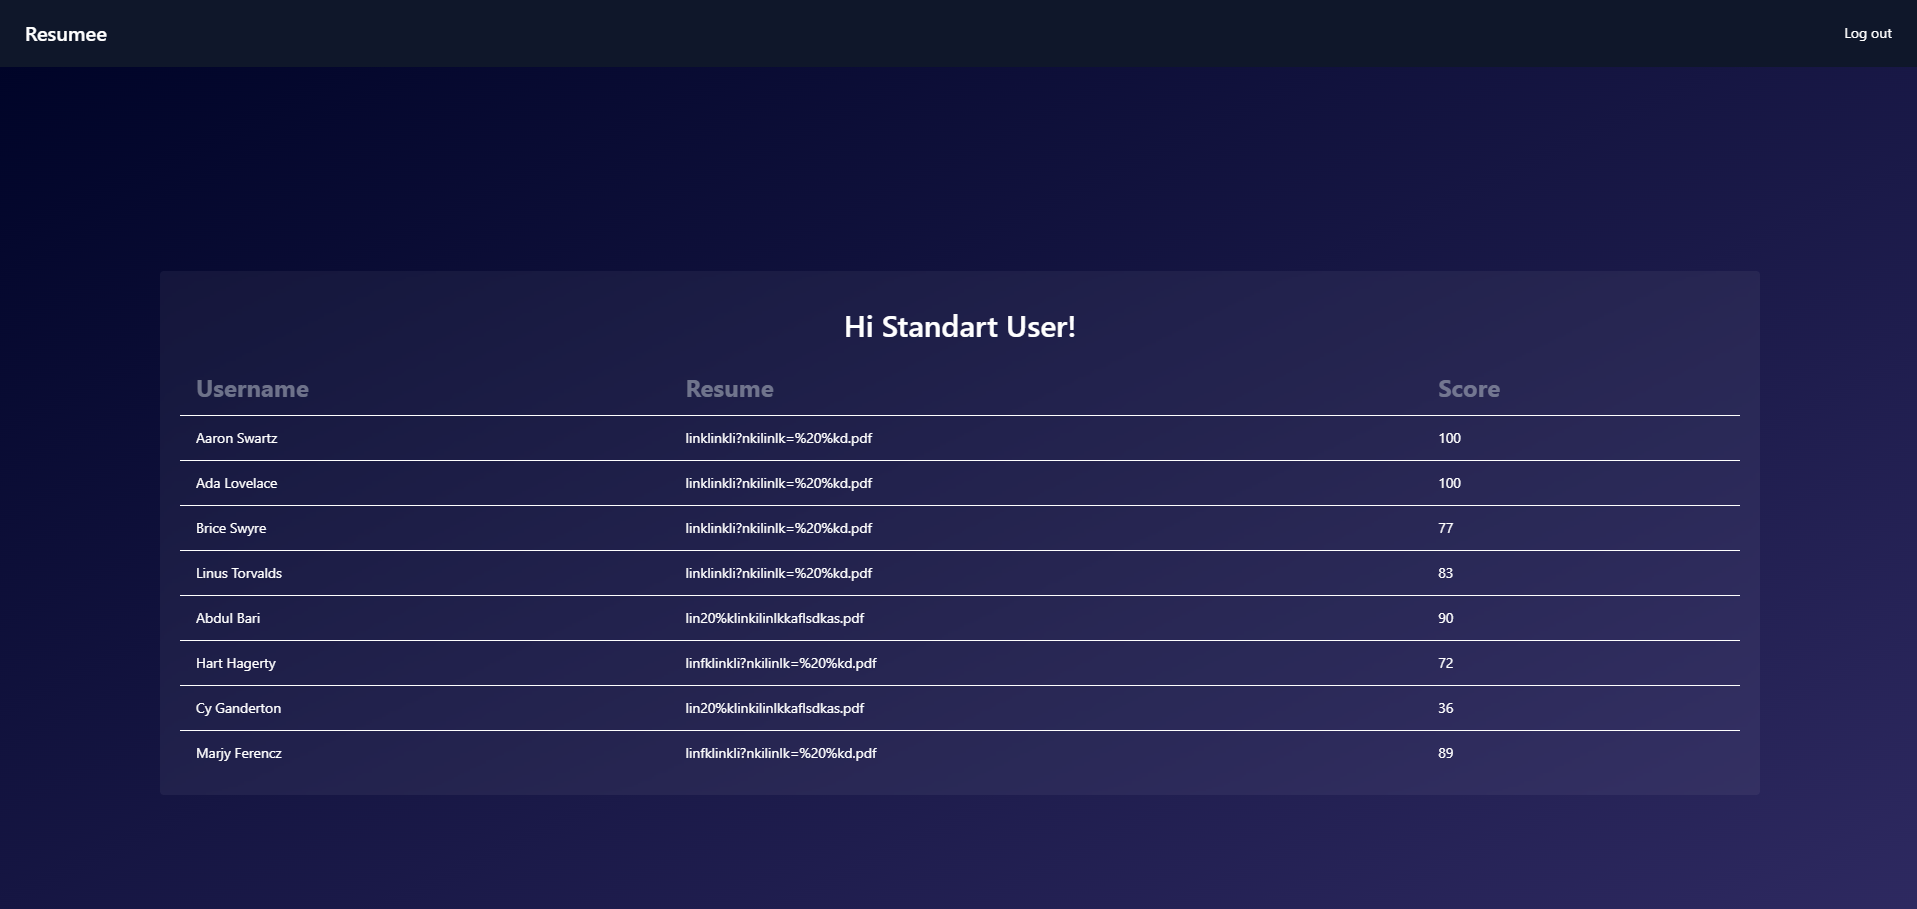
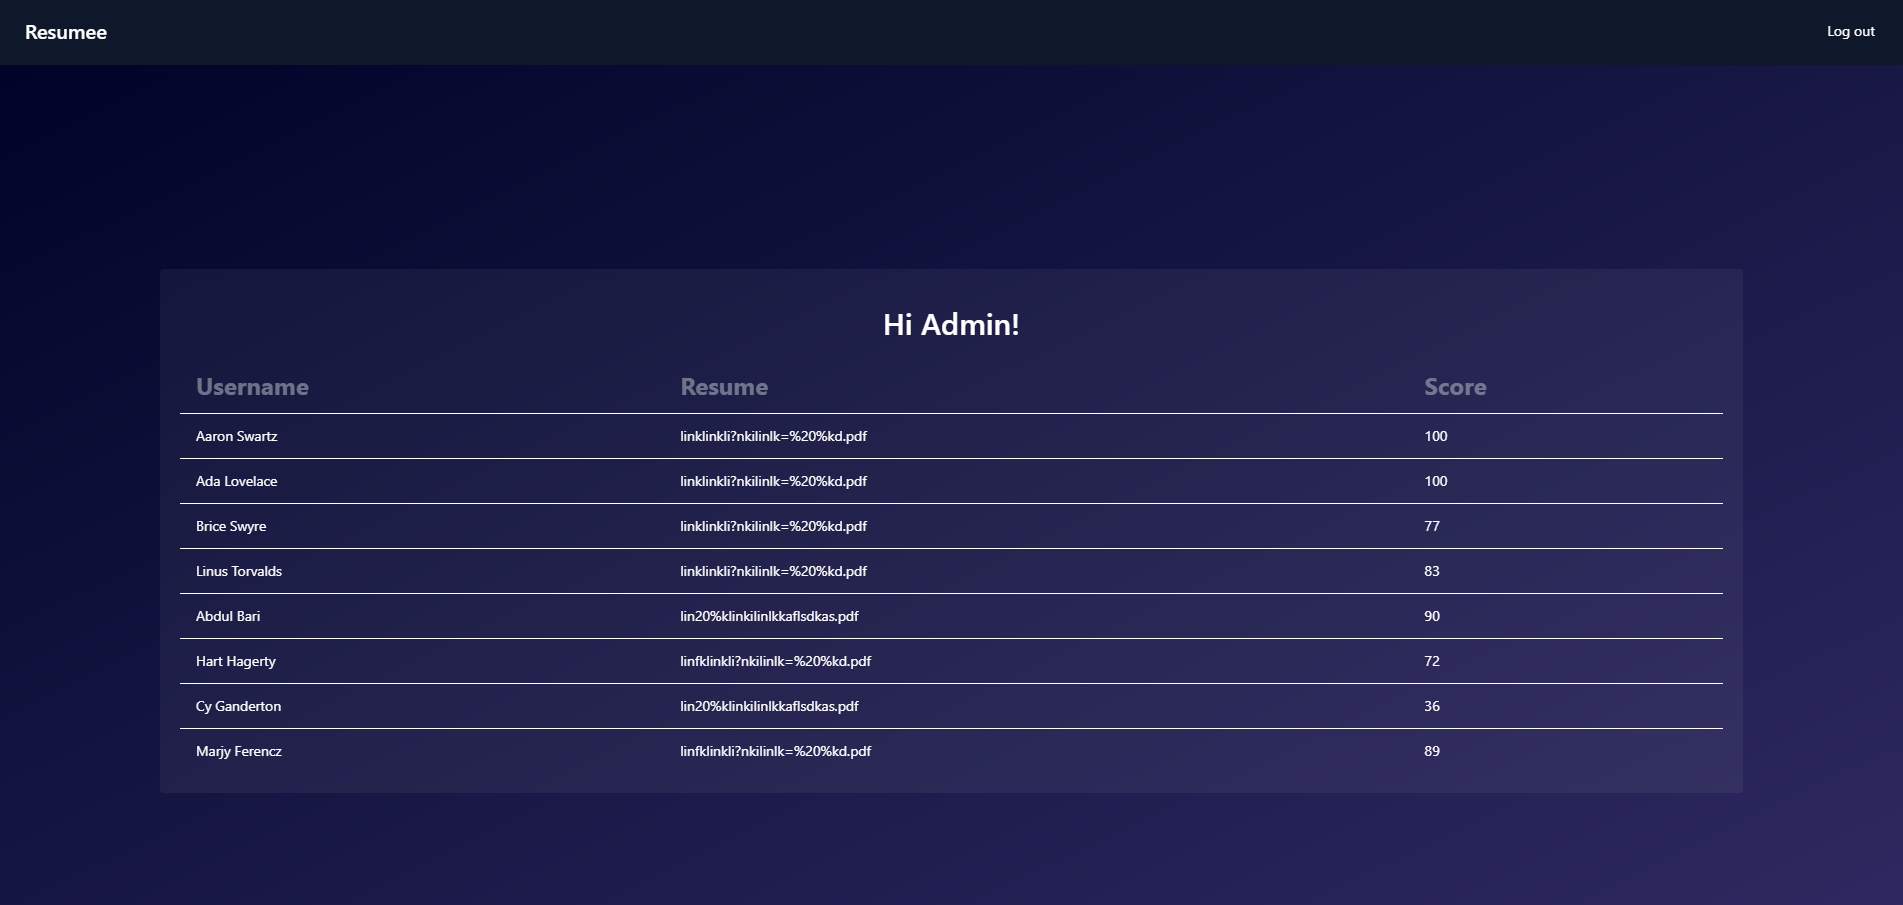
update

diff --git a/main.css b/main.css
@@ -8393,6 +8393,11 @@ details.collapse summary::-webkit-details-marker {
   margin-right: 1.75rem;
 }
 
+.my-10 {
+  margin-top: 2.5rem;
+  margin-bottom: 2.5rem;
+}
+
 .my-20 {
   margin-top: 5rem;
   margin-bottom: 5rem;
@@ -8401,16 +8406,6 @@ details.collapse summary::-webkit-details-marker {
 .my-5 {
   margin-top: 1.25rem;
   margin-bottom: 1.25rem;
-}
-
-.my-10 {
-  margin-top: 2.5rem;
-  margin-bottom: 2.5rem;
-}
-
-.my-7 {
-  margin-top: 1.75rem;
-  margin-bottom: 1.75rem;
 }
 
 .mb-2 {
@@ -9587,15 +9582,6 @@ details.collapse summary::-webkit-details-marker {
   border-color: rgb(255 255 255 / var(--tw-border-opacity));
 }
 
-.border-white\/80 {
-  border-color: rgb(255 255 255 / 0.8);
-}
-
-.border-gray-500 {
-  --tw-border-opacity: 1;
-  border-color: rgb(107 114 128 / var(--tw-border-opacity));
-}
-
 .bg-\[rgb\(255\2c 0\2c 0\)\] {
   --tw-bg-opacity: 1;
   background-color: rgb(255 0 0 / var(--tw-bg-opacity));
@@ -9622,19 +9608,6 @@ details.collapse summary::-webkit-details-marker {
 
 .bg-white\/5 {
   background-color: rgb(255 255 255 / 0.05);
-}
-
-.bg-white {
-  --tw-bg-opacity: 1;
-  background-color: rgb(255 255 255 / var(--tw-bg-opacity));
-}
-
-.bg-white\/20 {
-  background-color: rgb(255 255 255 / 0.2);
-}
-
-.bg-white\/10 {
-  background-color: rgb(255 255 255 / 0.1);
 }
 
 .bg-opacity-40 {
@@ -10510,21 +10483,6 @@ details.collapse summary::-webkit-details-marker {
 }
 
 @media (min-width: 640px) {
-  .sm\:mx-10 {
-    margin-left: 2.5rem;
-    margin-right: 2.5rem;
-  }
-
-  .sm\:mx-40 {
-    margin-left: 10rem;
-    margin-right: 10rem;
-  }
-
-  .sm\:my-0 {
-    margin-top: 0px;
-    margin-bottom: 0px;
-  }
-
   .sm\:my-4 {
     margin-top: 1rem;
     margin-bottom: 1rem;
@@ -10534,24 +10492,12 @@ details.collapse summary::-webkit-details-marker {
     margin-right: 1rem;
   }
 
-  .sm\:mt-0 {
-    margin-top: 0px;
-  }
-
   .sm\:h-5\/6 {
     height: 83.333333%;
   }
 
   .sm\:w-11\/12 {
     width: 91.666667%;
-  }
-
-  .sm\:w-96 {
-    width: 24rem;
-  }
-
-  .sm\:w-screen {
-    width: 100vw;
   }
 
   .sm\:grid-cols-2 {
@@ -10581,11 +10527,6 @@ details.collapse summary::-webkit-details-marker {
     line-height: 1.5rem;
   }
 
-  .sm\:text-2xl {
-    font-size: 1.5rem;
-    line-height: 2rem;
-  }
-
   .sm\:text-xl {
     font-size: 1.25rem;
     line-height: 1.75rem;
@@ -10597,11 +10538,6 @@ details.collapse summary::-webkit-details-marker {
 }
 
 @media (min-width: 768px) {
-  .md\:mx-40 {
-    margin-left: 10rem;
-    margin-right: 10rem;
-  }
-
   .md\:mx-20 {
     margin-left: 5rem;
     margin-right: 5rem;

diff --git a/login.html b/login.html
@@ -63,13 +63,13 @@
                         <label class="label">
                             <span class="label-text">Email</span>
                         </label>
-                        <input type="email" placeholder="email" class="input input-bordered" required />
+                        <input type="email" placeholder="email" class="input input-bordered"  />
                     </div>
                     <div class="form-control">
                         <label class="label">
                             <span class="label-text">Password</span>
                         </label>
-                        <input type="password" placeholder="password" class="input input-bordered" required />
+                        <input type="password" placeholder="password" class="input input-bordered"  />
                         <label class="label">
                             <a href="#" class="label-text-alt link link-hover">Forgot password?</a>
                         </label>

diff --git a/adminType.html b/adminType.html
@@ -25,7 +25,7 @@
         class="text-white bg-gradient-to-tl from-[#302b63] to-[#000428] min-h-screen flex items-center justify-center lg:h-screen py-16">
         <div class="overflow-x-auto md:w-screen md:mx-20 lg:mx-40 backdrop-blur-sm bg-white/5 rounded sm:p-5">
 
-            <h2 class="text-center text-white sm:my-4 my-10 text-3xl font-semibold">Hi Standart User!</h2>
+            <h2 class="text-center text-white sm:my-4 my-10 text-3xl font-semibold">Hi Admin!</h2>
 
             <table class="table">
                 <!-- head -->
